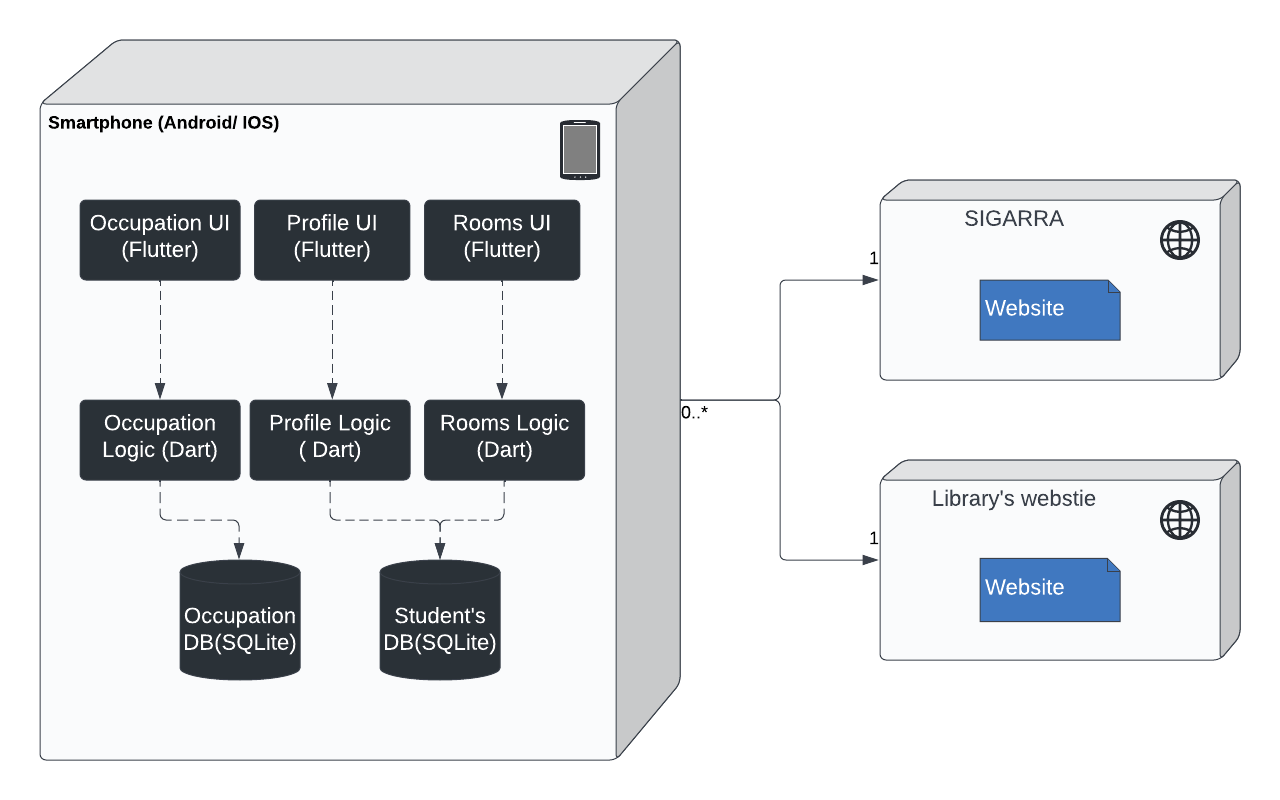
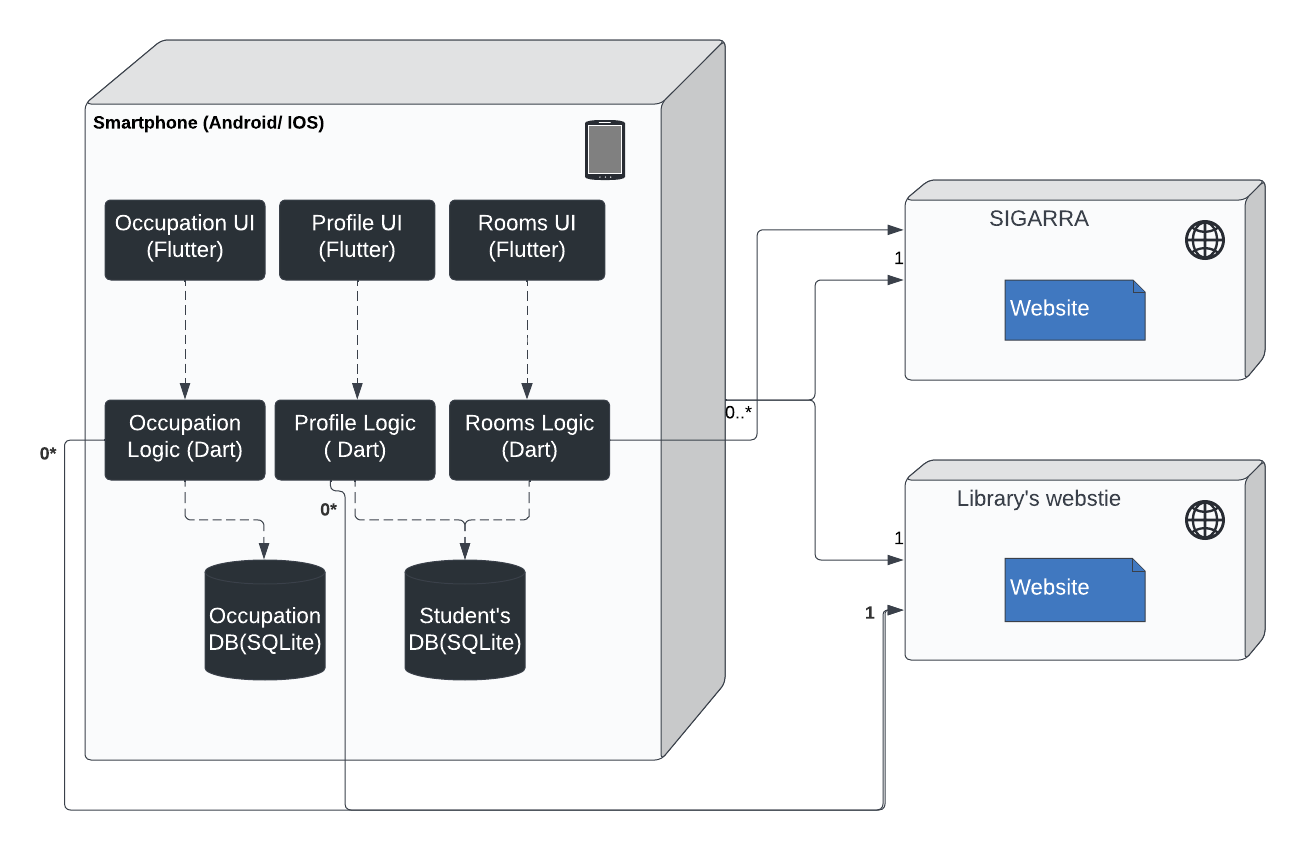
Feature/docmentation review (#38) (#41)
* Domain model updated and improved

* Domain model updated

* Physical diagram little modification

* Update domainmodel.md

* Domain model

* Update README.md

* Update README.md

diff --git a/docs/domainmodel.md b/docs/domainmodel.md
@@ -5,32 +5,34 @@
 <table>
   <tr>
     <td>Student</td>
-    <td>Represents the student even if is authenticated or not</td>
+    <td>Current authenticated user</td>
   </tr>
   <tr>
-    <td>Authenticated Student</td>
-    <td> The student with more privileges </td>
+    <td>Reservation</td>
+    <td>Represents a reservation for a private room</td>
   </tr>
   <tr>
-    <td>Room</td>
-    <td> Represents the rooms that can be booked</td>
-  </tr>
-  <tr>
-    <td>Ocupation</td>
+    <td>Library</td>
     <td>
-      The number of students in the library
+      The faculty's library
     </td>
   </tr>
   <tr>
-    <td>Library Profile</td>
+    <td>Floor</td>
     <td>
-       Informations about requests of students
+       A library floor. Includes capacity and current occupation
     </td>
   </tr>
   <tr>
-    <td>Booking</td>
+    <td>LibraryOccupation</td>
     <td>
-     Represents the requests to book a room
+     Overall library occupation
+    </td>
+  </tr>
+  <tr>
+    <td>Profile</td>
+    <td>
+     Student's library profile. Info like book loans and accounting
     </td>
   </tr>
 </table>

diff --git a/docs/README.md b/docs/README.md
@@ -10,4 +10,6 @@
  - [Domain Model](domainmodel.md)
  - [Architecture and Design](ArchitectureAndDesign.md)
  - Delivery
-   - [Iteration 1](iteration1.md)
+   - [Iteration 1](iteration1.md) 
+   - [Iteration 2](iteration2.md)
+   - [Iteration 3](iteration3.md)

diff --git a/README.md b/README.md
@@ -11,3 +11,5 @@
  - [Architecture and Design](docs/ArchitectureAndDesign.md)
  - Delivery
    - [Iteration 1](docs/iteration1.md)
+   - [Iteration 2](docs/iteration2.md)
+   - [Iteration 3](docs/iteration3.md)
